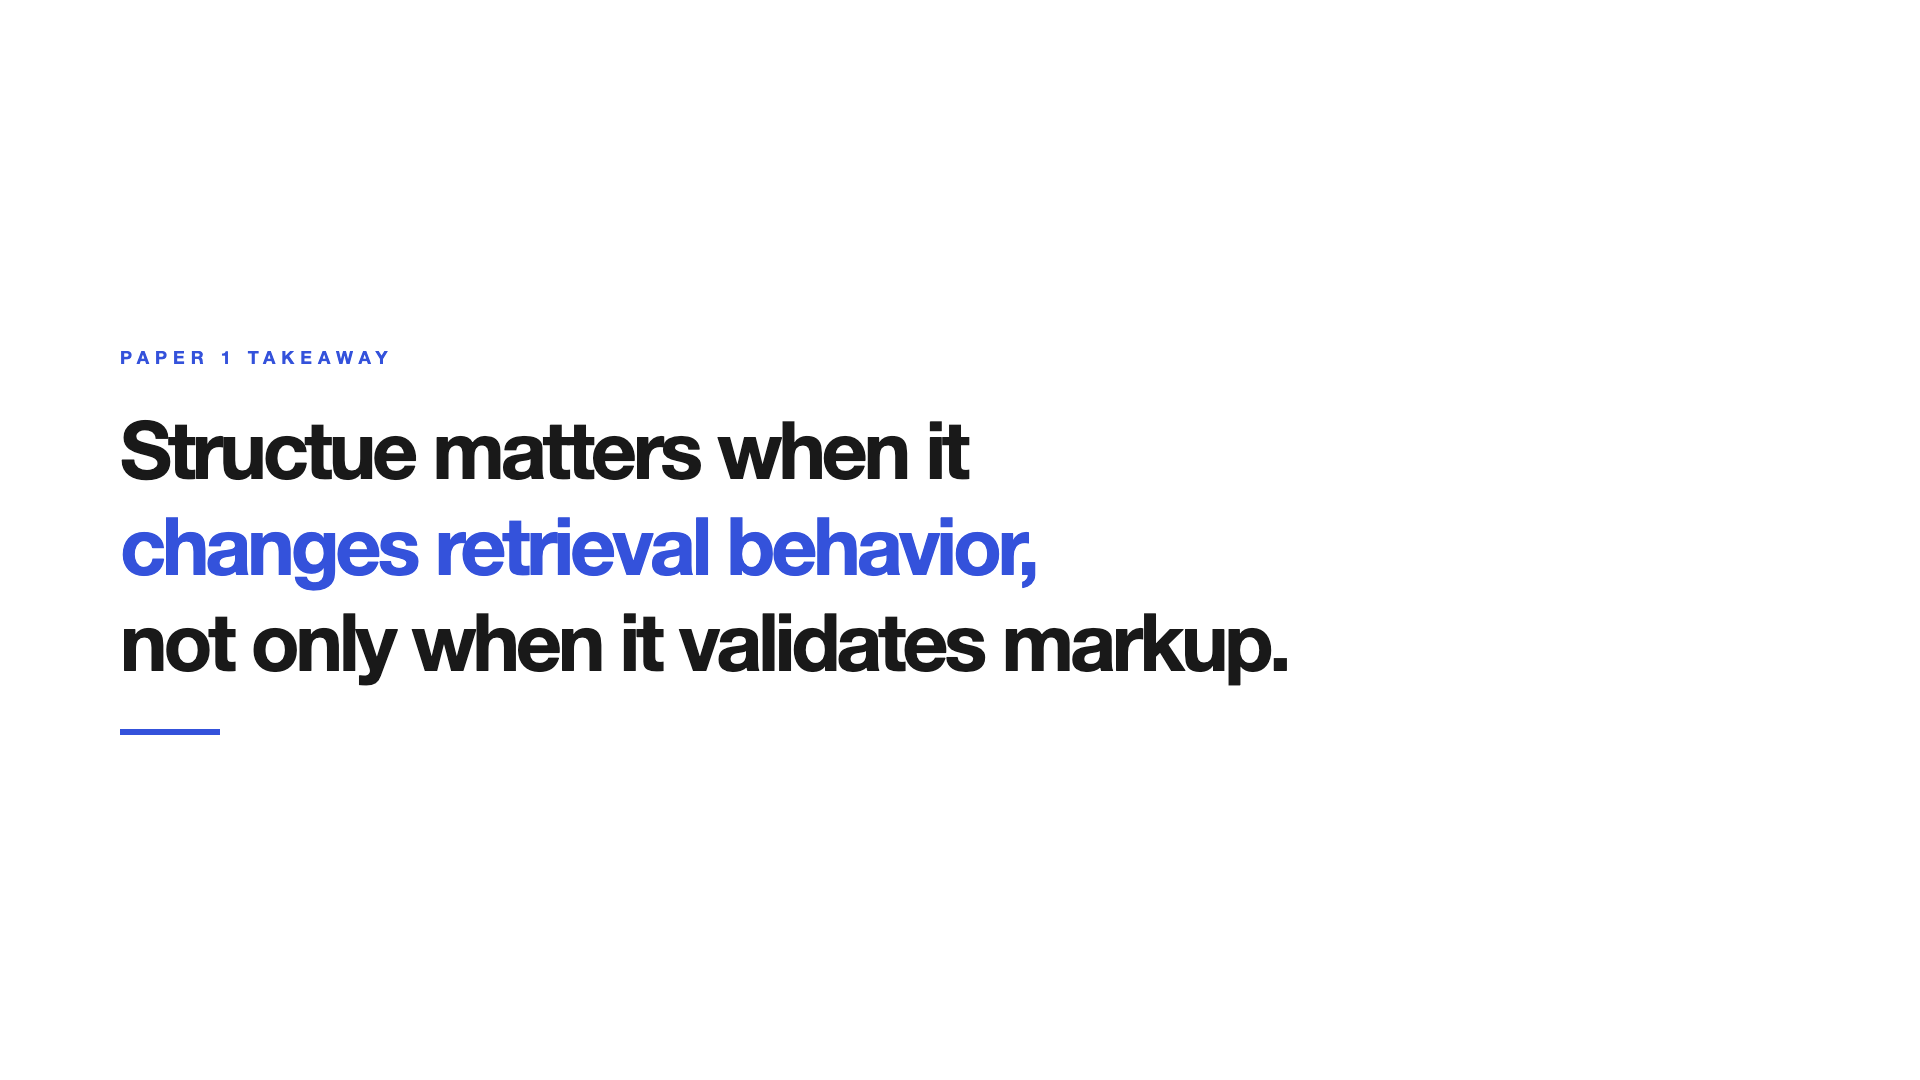
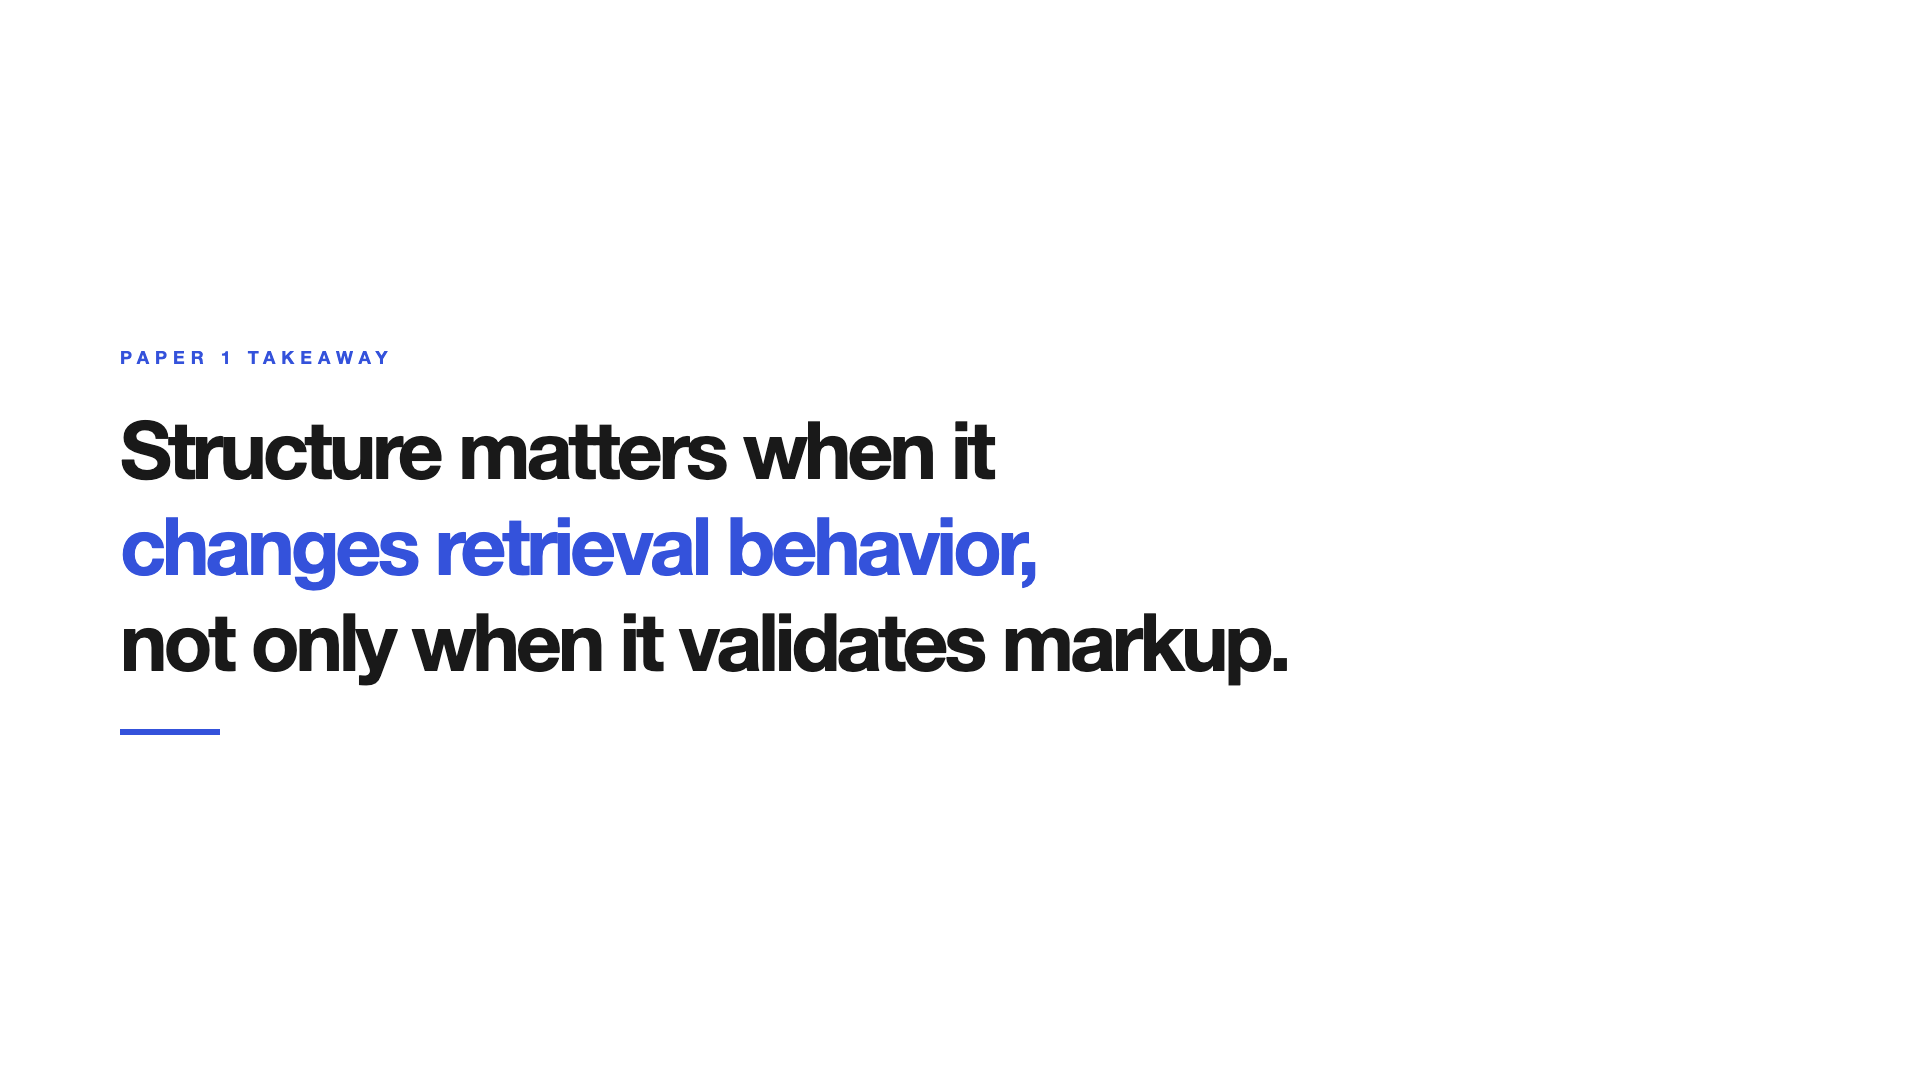
fix: corrected typo on slide 10 (Structue -> Structure)

Changed region(s): [[0.1875, 0.3667, 0.5312, 0.4583]]

diff --git a/generate_06_dark.py b/generate_06_dark.py
@@ -1,0 +1,60 @@
+#!/usr/bin/env python3
+import asyncio
+from pathlib import Path
+from PIL import Image
+import io
+
+OUT = Path("content_animations_v2")
+T = {
+    "dark": "#0D0D0D", "white": "#FFFFFF", "sky": "#3452DB",
+    "berry": "#D55471", "leaf": "#22A286", "sand": "#C2A41D",
+    "gray": "#A1A7AF", "W": 800, "H": 600,
+    "font": "'Helvetica Neue','Helvetica','Arial',sans-serif",
+}
+
+def get_html():
+    template = """
+    <style>
+    @keyframes count45{0%%{content:'0.0×'}25%%{content:'1.2×'}50%%{content:'2.8×'}75%%{content:'3.9×'}100%%{content:'4.5×'}}
+    @keyframes count8{0%%{content:'0×'}25%%{content:'2×'}50%%{content:'4×'}75%%{content:'6×'}100%%{content:'8×'}}
+    @keyframes fadeIn{from{opacity:0;transform:translateY(20px)}to{opacity:1;transform:translateY(0)}}
+    .stat{font-size:120px;font-weight:900;line-height:0.9;letter-spacing:-6px;color:%(sky)s;}
+    .stat::after{animation-duration:1.5s;animation-fill-mode:forwards;animation-timing-function:steps(4);}
+    .s1::after{content:'4.5×';animation-name:count45;}
+    .s2::after{content:'8×';animation-name:count8;animation-delay:0.5s;}
+    .s3{animation:fadeIn 0.8s ease-out 1.2s forwards;opacity:0;color:%(white)s;}
+    </style>
+    <div style="display:flex;gap:60px;padding:60px;font-family:%(font)s;background:%(dark)s;height:100%%;align-items:center;">
+      <div><div class="stat s1"></div><div style="font-size:18px;color:%(gray)s;margin-top:8px;">smaller</div></div>
+      <div><div class="stat s2"></div><div style="font-size:18px;color:%(gray)s;margin-top:8px;">faster</div></div>
+      <div><div class="stat s3" style="font-size:120px;font-weight:900;line-height:0.9;letter-spacing:-6px;">0</div>
+        <div style="font-size:18px;color:%(gray)s;margin-top:8px;">degradation</div></div>
+    </div>"""
+    html = template
+    for k, v in T.items():
+        html = html.replace(f"%%({k})s", str(v))
+    # Double check remaining %% if any
+    html = html.replace("%%", "%")
+    return f"<!DOCTYPE html><html><head><style>body{{margin:0;padding:0;overflow:hidden;}}</style></head><body>{html}</body></html>"
+
+async def main():
+    from playwright.async_api import async_playwright
+    OUT.mkdir(exist_ok=True)
+    async with async_playwright() as p:
+        browser = await p.chromium.launch()
+        page = await browser.new_page(viewport={"width": T["W"], "height": T["H"]})
+        await page.set_content(get_html())
+        
+        frames = []
+        for i in range(30):
+            await asyncio.sleep(0.1)
+            frames.append(await page.screenshot(type="png"))
+        
+        pil_frames = [Image.open(io.BytesIO(f)).convert("RGBA") for f in frames]
+        gif_path = OUT / "06_turboquant_counter_dark.gif"
+        pil_frames[0].save(str(gif_path), save_all=True, append_images=pil_frames[1:], duration=100, loop=0)
+        print(f"Generated: {gif_path}")
+        await browser.close()
+
+if __name__ == "__main__":
+    asyncio.run(main())

diff --git a/build_google_slides.py b/build_google_slides.py
@@ -47,7 +47,7 @@ GIF_MAP = {
     "25_comparison": "15b_graphrag_faceoff",
     "26_behavioral": "17_distillation_pipeline",
     "28_new_workflow": "26_consistency_bars",
-    "29_audit": "20_floor_set",
+    "29_audit": "20_checklist",
     "31_thesis": "30_closing_cta",
 }
 
@@ -100,16 +100,15 @@ def main():
     all_slides = pres["slides"]
     print(f"  ✓ Total slides: {len(all_slides)}")
 
-    # 4. Set backgrounds + GIF overlays
-    requests = []
+    # 4. Set backgrounds + GIF overlays (one by one for stability)
     for idx, slide_name in enumerate(SLIDES):
         slide_obj = all_slides[idx]
         page_id = slide_obj["objectId"]
         png_url = f"{REPO}/slides_v2/{slide_name}.png"
-        print(f"  ({idx+1}/{len(SLIDES)}) Mapping {slide_name}...")
+        print(f"  ({idx+1}/{len(SLIDES)}) Setting {slide_name}...", end=" ", flush=True)
 
         # Background PNG
-        requests.append({
+        requests = [{
             "updatePageProperties": {
                 "objectId": page_id,
                 "pageProperties": {
@@ -119,7 +118,7 @@ def main():
                 },
                 "fields": "pageBackgroundFill",
             }
-        })
+        }]
 
         # Opt-in GIF Overlay
         if slide_name in GIF_MAP:
@@ -137,12 +136,14 @@ def main():
                 }
             })
 
-    # Submit in batches
-    batch_size = 50
-    for i in range(0, len(requests), batch_size):
-        batch = requests[i:i + batch_size]
-        print(f"  Applying batch {i//batch_size + 1}...")
-        service.presentations().batchUpdate(presentationId=pres_id, body={"requests": batch}).execute()
+        try:
+            service.presentations().batchUpdate(presentationId=pres_id, body={"requests": requests}).execute()
+            print("✓")
+        except Exception as e:
+            print(f"FAILED on {slide_name}")
+            print(f"  Error: {e}")
+            # Try to continue without background/image for this slide
+            continue
 
     print(f"\n✓ Presentation Ready: https://docs.google.com/presentation/d/{pres_id}/edit")
 

diff --git a/generate_slides_v2_bold.py b/generate_slides_v2_bold.py
@@ -205,7 +205,7 @@ def slide_09():
 def slide_10():
     return light(f"""
     <div class="section">Paper 1 Takeaway</div>
-    <div class="h" style="font-size:80px;line-height:1.2;">Structue matters when it<br><span style="color:{T['sky']};">changes retrieval behavior,</span><br>not only when it validates markup.</div>
+    <div class="h" style="font-size:80px;line-height:1.2;">Structure matters when it<br><span style="color:{T['sky']};">changes retrieval behavior,</span><br>not only when it validates markup.</div>
     <div class="bar" style="width:100px;background:{T['sky']};"></div>""")
 
 # ═══════════════════════════════════════════════════════════
